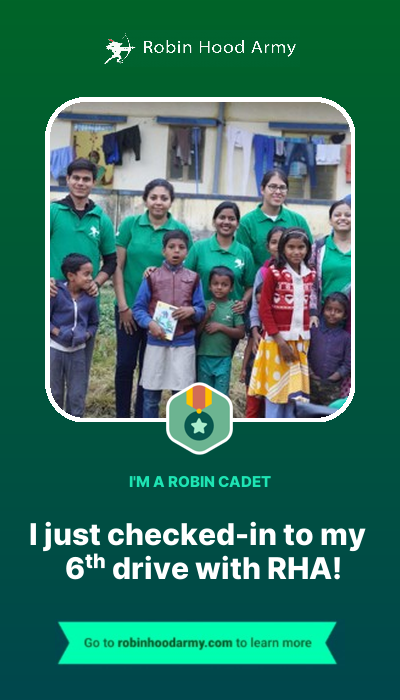
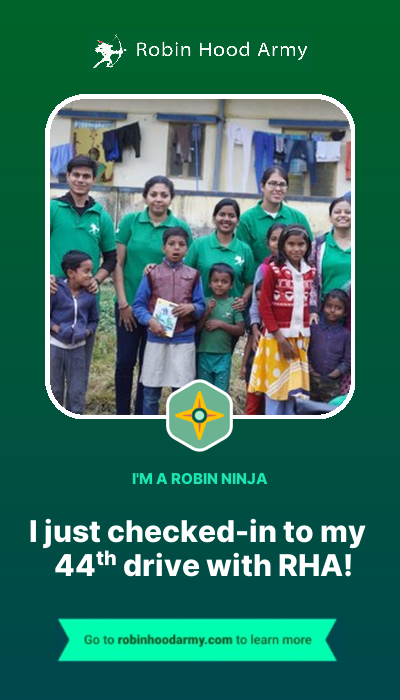
add generic code for dynamic badge_img and text, decorate drive count

diff --git a/app.py b/app.py
@@ -1,7 +1,7 @@
 from PIL import Image, ImageDraw, ImageFont, ImageOps
 import requests
 import io
-from image_edit_helper import put_border_radius, create_gradient_image
+from image_edit_helper import put_border_radius, create_gradient_image, get_badge_details, get_count_decorated
 
 # Set global variables values
 # Define the colors for the gradient
@@ -16,8 +16,21 @@ container_size = (400, 700)
 container_width, container_height = container_size
 used_height = 0
 
+# ~~~~~~~~ Drive details ~~~~~~~~~~~~~~~~~~~~~
+# TODO: Fetch these details from server and update
+# get a random image
+# image_response = requests.get('https://source.unsplash.com/random/300x200')
+# user_image = Image.open(io.BytesIO(image_response.content))
+# user_image = Image.open("static/checkin-sample2.jpg")
+# user_image = Image.open("static/checkin-sample3.jpg")
+user_image = Image.open("static/checkin-sample.jpg") # TODO: update this
+image =user_image
+drive_count = 44 # TODO: update this with actual drive count
+# get badge_text and badge image path based on drive count
+badge_text, badge_img_path = get_badge_details(drive_count)
+# ~~~~~~~~ End: Drive details ~~~~~~~~~~~~~~~~~~~~~
 
-# Decorate the image ~~~~~~~~~~~~
+# ################## Start: Decorate the image ##################
 # create gradient container image ~~~~~~~~~~~~~~~~~~~~~
 container = create_gradient_image(container_size, color1, color2)
 
@@ -25,7 +38,7 @@ container = create_gradient_image(container_size, color1, color2)
 # Put the logo image
 rha_logo_img = Image.open("static/rha-logo.png")
 # resize the logo image
-new_size = tuple(dim - padding*2.5 for dim in container_size)
+new_size = tuple(dim - padding*2.2 for dim in container_size)
 # new_size = tuple(dim // 1.6 for dim in container_size)
 rha_logo_img.thumbnail(new_size)
 
@@ -38,13 +51,6 @@ used_height = y + logo_height
 # ~~~~~~~~~~ end: logo image ~~~~~~~~~~~~
 
 # ~~~~~~~~~~ image ~~~~~~~~~~~~
-# get a random image
-# image_response = requests.get('https://source.unsplash.com/random/300x200')
-# image = Image.open(io.BytesIO(image_response.content))
-image = Image.open("static/checkin-sample2.jpg")
-image = Image.open("static/checkin-sample3.jpg")
-image = Image.open("static/checkin-sample.jpg")
-
 # Crop the image
 # Define crop dimensions
 crop_width, crop_height = 310, 325
@@ -55,14 +61,14 @@ image = put_border_radius(image, border_radius)
 # paste image in container at the center
 image_width, image_height = image.size
 x = (container_width - image_width) // 2
-y = int(used_height + margin)
+y = int(used_height + margin*0.75)
 container.paste(image, (x, y), image)
 used_height = y + image_height
 # ~~~~~~~~~~ end: image ~~~~~~~~~~~~
 
 
 # ~~~~~~~~~~ Badge image ~~~~~~~~~~~~
-badge_image = Image.open("static/badges/cadet.png")
+badge_image = Image.open(f"static/badges/{badge_img_path}.png")
 # resize the badge_image
 new_size = tuple(dim // 4 for dim in image.size)
 badge_image.thumbnail(new_size)
@@ -77,7 +83,7 @@ used_height = y + image_height
 # ~~~~~~~~~~ Text: badge text ~~~~~~~~~~~~
 # Add text to the container using the ImageDraw module
 draw = ImageDraw.Draw(container)
-text = "I'M A ROBIN CADET"
+text = f"I'M A ROBIN {badge_text.upper()}"
 font = ImageFont.truetype(font_family, 15)
 # get text box size
 text_box = draw.textbbox((0, 0), text, font=font)
@@ -91,7 +97,8 @@ used_height = y + text_height
 
 # ~~~~~~~~~~ Text: drive_count text ~~~~~~~~~~~~
 draw = ImageDraw.Draw(container)
-text = """I just checked-in to my \n 6ᵗʰ drive with RHA!"""
+drive_count_decorated = get_count_decorated(drive_count)
+text = f"I just checked-in to my \n {drive_count_decorated} drive with RHA!"
 font = ImageFont.truetype(font_family, 30)
 # get text box size
 text_box = draw.textbbox((0, 0), text, font=font)
@@ -104,7 +111,7 @@ used_height = y + text_height
 # ~~~~~~~~~~ end Text: drive_count text ~~~~~~~~~~~~
 
 # ~~~~~~ url box ~~~~~~
-rha_url_img = Image.open("static/website.png")
+rha_url_img = Image.open("static/website-url.png")
 # resize the url image
 new_size = tuple(dim - padding-margin for dim in container_size)
 rha_url_img.thumbnail(new_size)
@@ -115,6 +122,7 @@ x = (container_width - url_width) // 2
 y = int(used_height + margin*1.5)
 container.paste(rha_url_img, (x, y))
 used_height = y + url_height
+# ~~~~~~ end: url box ~~~~~~
 
 
 # save the image

diff --git a/image_edit_helper.py b/image_edit_helper.py
@@ -44,7 +44,42 @@ def put_border_radius(image, border_radius, border_width=5, border_color=(255, 2
 
     # Draw the border
     draw = ImageDraw.Draw(img_container)
-    draw.rounded_rectangle((0, 0) + img_container_size, radius=border_radius, outline=border_color, width=border_width)
+    draw.rounded_rectangle((0, 0) + img_container_size,
+                           radius=border_radius, outline=border_color, width=border_width)
 
     return img_container
 
+
+# get_badge_details
+def get_badge_details(drive_count):
+    badge_text = ""
+    badge_img_path = ""
+    if(drive_count >= 100):
+        badge_text = "centurion"
+        badge_img_path = "centurion"
+    elif(drive_count >= 50):
+        badge_text = "gladiator"
+        badge_img_path = "gladiator"
+    elif(drive_count >= 10):
+        badge_text = "ninja"
+        badge_img_path = "ninja"
+    elif(drive_count >= 0):
+        badge_text = "cadet"
+        badge_img_path = "cadet"
+
+    return badge_text, badge_img_path
+
+
+# get_count_decorated
+def get_count_decorated(drive_count):
+    count_decorated = ""
+    if(drive_count == 1):
+        count_decorated = "1ˢᵗ"
+    elif(drive_count == 2):
+        count_decorated = "2ⁿᵈ"
+    elif(drive_count == 3):
+        count_decorated = "3ʳᵈ"
+    else:
+        count_decorated = f"{drive_count}ᵗʰ"
+
+    return count_decorated
